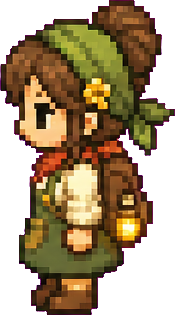
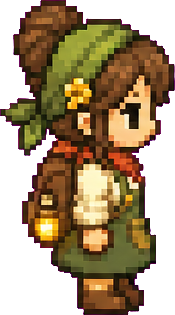
fix: 주인공 우측 스프라이트 반전 복구 + 밭·작물 정렬 보정
- hero_right_1/2가 에셋 병합 과정에서 미반전 원본으로 덮여 왼쪽을 봄 → 재반전
- 밭 앵커 좌표를 맵 픽셀 실측값으로 교정 (열 207+63.5·행 405+59.5 — 기존 행간 58px가 실제 59.7px와 어긋나 아랫줄일수록 밀림)

diff --git a/js/data/maps.js b/js/data/maps.js
@@ -7,7 +7,7 @@ const r = (x, y, w, h) => [x * T, y * T, w * T, h * T];
 const plots = [];
 for (let row = 0; row < 4; row++) {
   for (let col = 0; col < 5; col++) {
-    plots.push({ x: 187 + col * 64 + 28, y: 368 + row * 58 + 40 }); // 앵커: 밭칸 중심 하단
+    plots.push({ x: 207 + col * 63.5, y: 405 + row * 59.5 }); // 앵커: 밭칸 중심 하단 (픽셀 실측값)
   }
 }
 